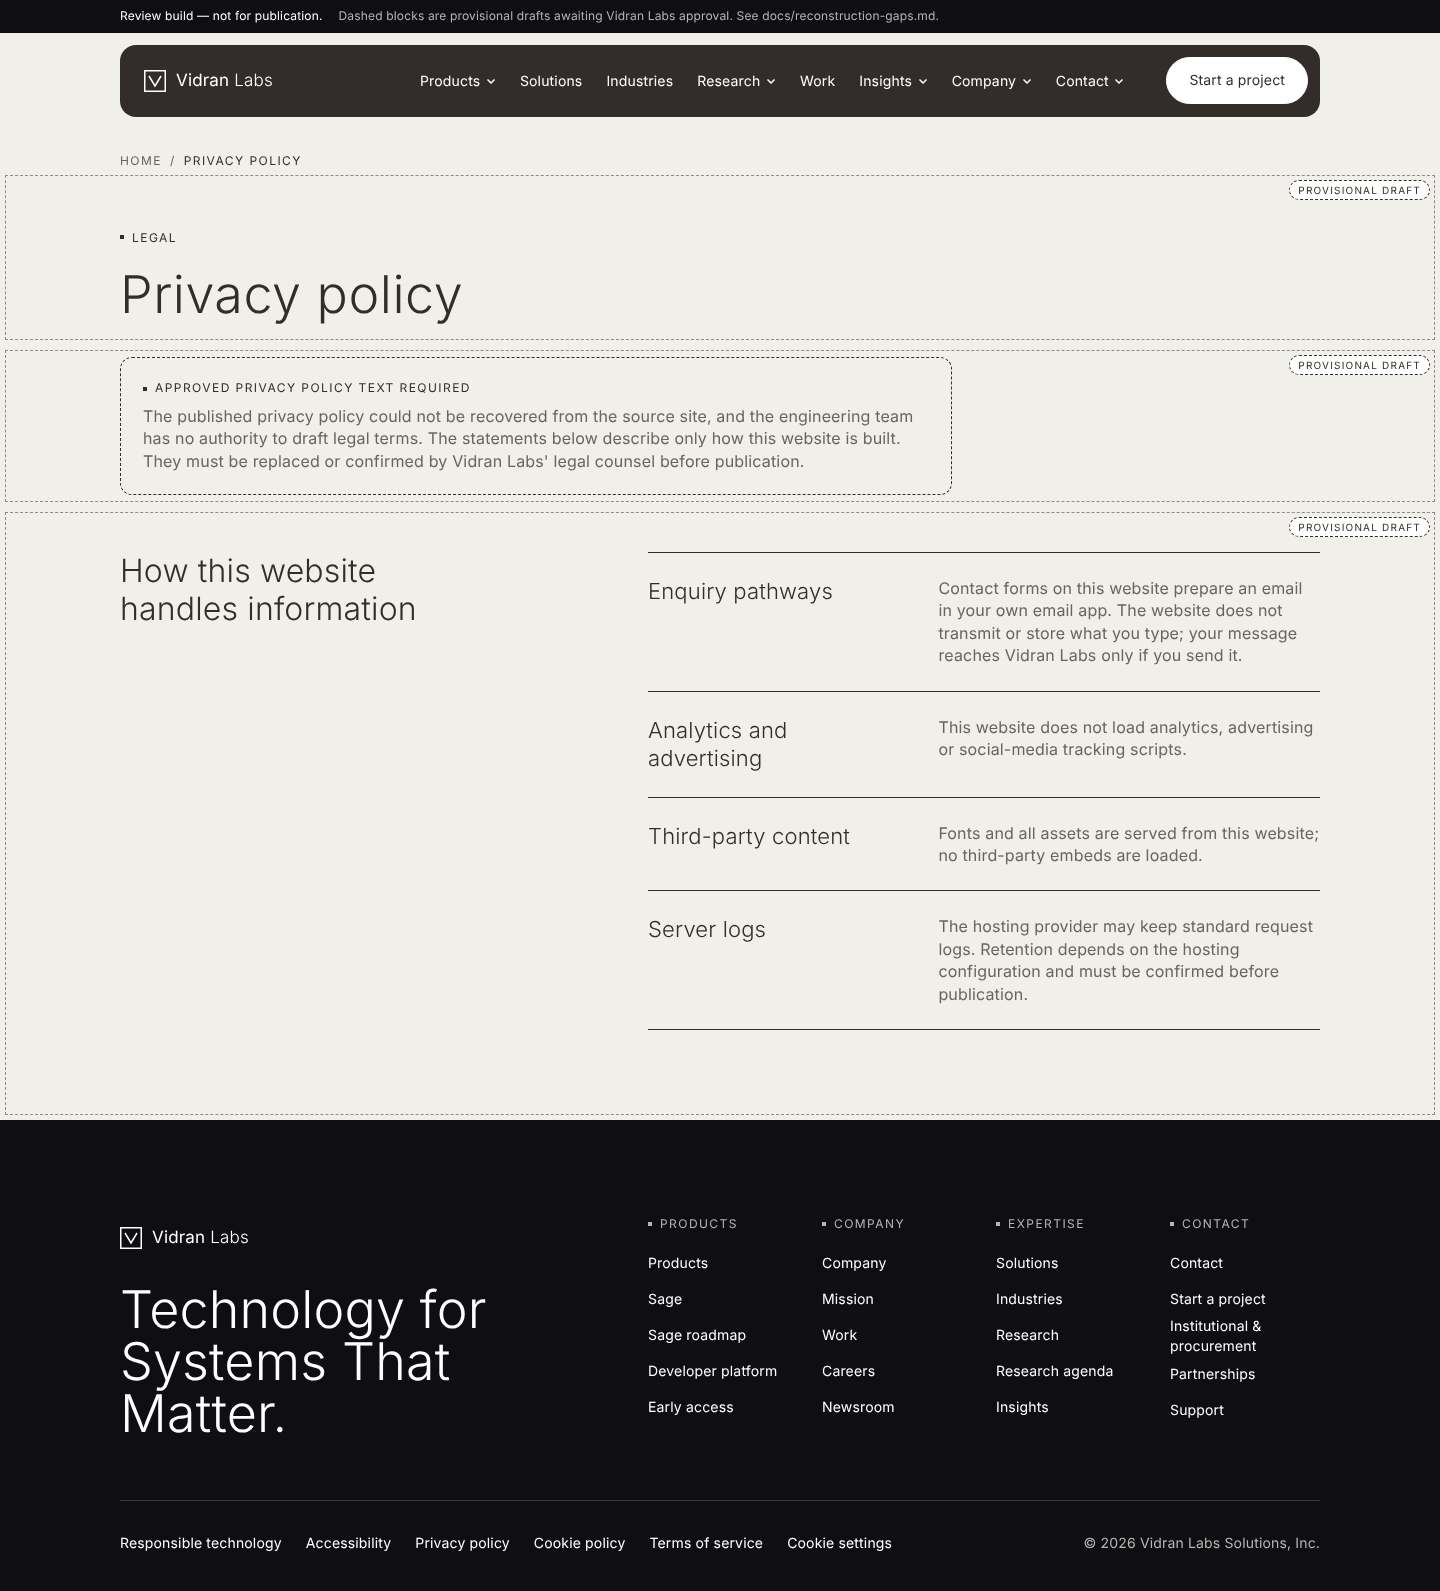
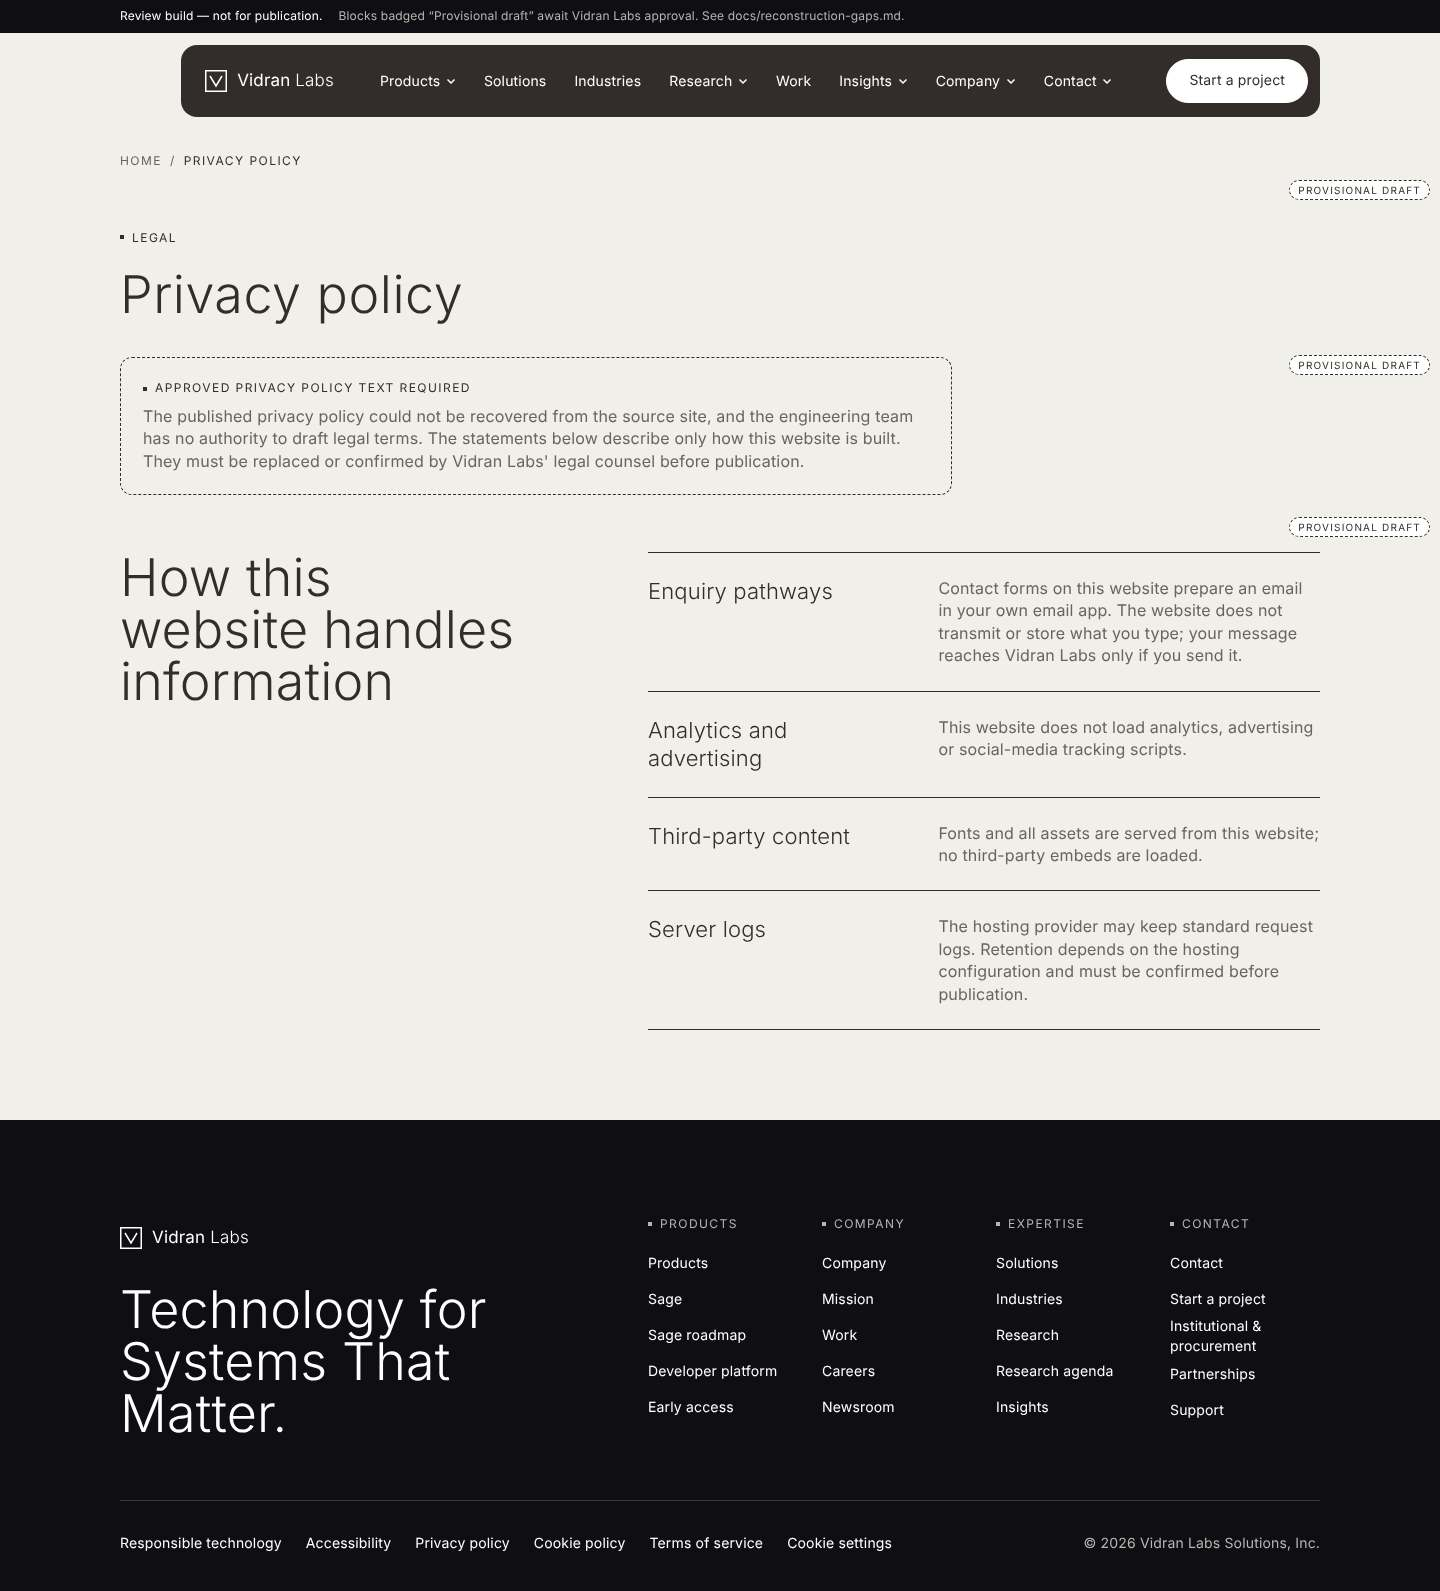
Close composition gaps with the reference design language
Audit against the T1 Energy style reference found the tokens matched but the
composition did not. Fixes:

- Home hero: full-viewport, full-bleed onyx field with the nav pill floating
  over it; headline bottom-left, caption card bottom-right
- Nav pill hugs its content and anchors top-right on desktop; fixed height
- Section headlines at the 52px weight-300 display scale (were 32px)
- Buttons at 18/22px padding; prose at 16px body size
- Review-mode markers reduced to badges (no dashed outlines)
- Fluid hero lede on phones

Tests now scan/measure the mobile menu after its fade-in settles.

Claude-Session: https://claude.ai/code/session_01WGUivKaw5x2xUXsqQQyRBX

diff --git a/styles/components.css b/styles/components.css
@@ -10,7 +10,7 @@
   justify-content: center;
   gap: var(--space-8);
   min-height: var(--tap-min);
-  padding: 0.875rem 1.375rem; /* ≈18/22 with line-height */
+  padding: 1.125rem 1.375rem; /* 18 / 22 */
   border: 1px solid var(--btn-border);
   border-radius: var(--radius-pills);
   background: var(--btn-bg);
@@ -125,11 +125,19 @@
   display: flex;
   align-items: center;
   gap: var(--space-24);
-  min-height: var(--nav-h);
+  height: var(--nav-h);
   padding: var(--space-12) var(--space-12) var(--space-12) var(--space-24);
   border-radius: var(--radius-nav);
   background: var(--color-carbon-warm);
   color: var(--color-text-on-dark);
+}
+
+@media (min-width: 1100px) {
+  .site-header__inner {
+    width: fit-content;
+    margin-left: auto;
+    gap: var(--space-36);
+  }
 }
 
 .wordmark {
@@ -165,7 +173,7 @@
 .primary-nav__list {
   display: flex;
   align-items: center;
-  gap: var(--space-4);
+  gap: var(--space-8);
   list-style: none;
 }
 
@@ -280,6 +288,9 @@
   --btn-fg: var(--color-carbon-warm);
   --btn-border: var(--color-paper-white);
   margin-left: var(--space-8);
+  /* Compact inside the pill so the header height stays exactly --nav-h,
+     which the full-bleed hero relies on to sit flush under it. */
+  padding-block: 0.75rem;
 }
 
 .header-cta.btn:hover {
@@ -631,10 +642,11 @@
   margin-bottom: var(--space-36);
 }
 
+/* Section headlines share the hero's display scale — scale contrast carries the page. */
 .section-head__title {
-  font-size: var(--text-heading);
+  font-size: var(--text-display);
   font-weight: var(--weight-light);
-  line-height: var(--leading-heading);
+  line-height: var(--leading-display);
 }
 
 .section-head__intro {
@@ -664,7 +676,7 @@
 
 .hero__lede {
   max-width: 40rem;
-  font-size: var(--text-subheading);
+  font-size: clamp(1.125rem, 1rem + 0.6vw, 1.375rem); /* 18 → 22 */
   line-height: var(--leading-subheading);
   color: var(--color-text-muted);
 }
@@ -712,6 +724,49 @@
   color: var(--color-text-on-dark-muted);
 }
 
+/* Full-viewport, edge-to-edge hero. The header (sticky, transparent strip + pill)
+   floats over it: pull the hero up by the header's height. Onyx (not carbon) so
+   the carbon nav pill stays distinct on top of it. */
+.hero--fullbleed {
+  position: relative;
+  display: flex;
+  align-items: flex-end;
+  min-height: 100svh;
+  margin-top: calc(-1 * (var(--nav-h) + var(--space-12)));
+  padding-block: calc(var(--nav-h) + var(--space-12) + var(--space-60)) clamp(2.5rem, 1.5rem + 4vw, 5rem);
+  background-color: var(--color-onyx-depth);
+  background-image:
+    linear-gradient(to right, rgb(255 255 255 / 0.045) 1px, transparent 1px),
+    linear-gradient(to bottom, rgb(255 255 255 / 0.045) 1px, transparent 1px);
+  background-size: 64px 64px;
+  background-position: center bottom;
+  color: var(--color-text-on-dark);
+}
+
+.hero-bleed__inner {
+  display: grid;
+  gap: var(--space-36);
+  align-items: end;
+}
+
+@media (min-width: 900px) {
+  .hero-bleed__inner {
+    grid-template-columns: minmax(0, 1fr) auto;
+  }
+}
+
+html[data-review="on"] .hero--fullbleed > .provenance-badge {
+  top: calc(var(--nav-h) + var(--space-24));
+}
+
+.hero--fullbleed .hero__lede {
+  color: var(--color-text-on-dark-muted);
+}
+
+.hero--fullbleed .feature-card {
+  background: var(--color-carbon-warm);
+}
+
 /* Feature card on the panel — the "film-still caption" */
 .feature-card {
   position: relative;
@@ -748,7 +803,7 @@
   display: grid;
   gap: var(--space-16);
   max-width: var(--measure);
-  font-size: 1.125rem;
+  font-size: var(--text-body);
   line-height: var(--leading-body);
 }
 
@@ -1694,11 +1749,6 @@ select.field__control {
    ================================================================ */
 .provenance-badge {
   display: none;
-}
-
-html[data-review="on"] [data-provenance="provisional"] {
-  outline: 1px dashed var(--color-mercury);
-  outline-offset: -6px;
 }
 
 html[data-review="on"] [data-provenance] > .provenance-badge {

diff --git a/components/Blocks.tsx b/components/Blocks.tsx
@@ -94,6 +94,23 @@ export function BlockView({ block, isFirst, compactHero, sectionIndex }: { block
           {block.actions ? <Actions actions={block.actions} /> : null}
         </div>
       );
+      const feature = block.feature ? (
+        <Link href={block.feature.href} className="feature-card">
+          <span className="eyebrow">{block.feature.label}</span>
+          <span className="feature-card__title">{block.feature.title}</span>
+        </Link>
+      ) : null;
+      if (block.tone === "dark" && block.layout === "fullbleed") {
+        return (
+          <section className="hero hero--fullbleed on-dark" data-provenance={block.provenance}>
+            <span className="provenance-badge">{PROVENANCE_LABEL[block.provenance]}</span>
+            <div className="container hero-bleed__inner">
+              {inner}
+              {feature}
+            </div>
+          </section>
+        );
+      }
       if (block.tone === "dark") {
         return (
           <section className="block hero hero--panel" data-provenance={block.provenance}>
@@ -101,12 +118,7 @@ export function BlockView({ block, isFirst, compactHero, sectionIndex }: { block
             <div className="container">
               <div className="hero-panel on-dark">
                 {inner}
-                {block.feature ? (
-                  <Link href={block.feature.href} className="feature-card">
-                    <span className="eyebrow">{block.feature.label}</span>
-                    <span className="feature-card__title">{block.feature.title}</span>
-                  </Link>
-                ) : null}
+                {feature}
               </div>
             </div>
           </section>

diff --git a/tests/e2e/a11y.spec.ts b/tests/e2e/a11y.spec.ts
@@ -20,6 +20,8 @@ test("axe: open mobile menu and form error state", async ({ page }, info) => {
   let results = await new AxeBuilder({ page }).withTags(TAGS).analyze();
   expect(results.violations.map((v) => v.id)).toEqual([]);
   await page.getByRole("button", { name: "Menu" }).click();
+  // Scan the settled state: mid-fade frames blend text into the background.
+  await page.waitForFunction(() => document.getAnimations().every((a) => a.playState !== "running"));
   // While the menu is open, <main> is intentionally inert (modal behaviour), so the
   // best-practice "page has main / h1" rules cannot see it. All WCAG rules still run.
   results = await new AxeBuilder({ page }).withTags(TAGS).disableRules(["landmark-one-main", "page-has-heading-one"]).analyze();

diff --git a/app/layout.tsx b/app/layout.tsx
@@ -35,7 +35,7 @@ export default function RootLayout({ children }: { children: React.ReactNode }) 
           <div className="review-bar" role="region" aria-label="Review build notice">
             <div className="container review-bar__inner">
               <strong>Review build — not for publication.</strong>
-              <span>Dashed blocks are provisional drafts awaiting Vidran Labs approval. See docs/reconstruction-gaps.md.</span>
+              <span>Blocks badged “Provisional draft” await Vidran Labs approval. See docs/reconstruction-gaps.md.</span>
             </div>
           </div>
         ) : null}

diff --git a/content/pages/core.ts b/content/pages/core.ts
@@ -16,6 +16,7 @@ export const corePages: PageDoc[] = [
         title: "Technology for Systems That Matter.",
         lede: "Software, artificial intelligence, automation, data, digital infrastructure, intelligent systems, products and research.",
         tone: "dark",
+        layout: "fullbleed",
         actions: [
           { label: "Start a project", href: "/start-a-project/", variant: "primary" },
           { label: "Explore Sage", href: "/products/sage/", variant: "secondary" },

diff --git a/lib/types.ts b/lib/types.ts
@@ -39,6 +39,8 @@ export type Block =
       actions?: Action[];
       /** "dark" renders the carbon porthole panel (stands in for photography). */
       tone?: "light" | "dark";
+      /** "fullbleed": edge-to-edge, full-viewport dark field under the floating nav (home only). */
+      layout?: "inset" | "fullbleed";
       /** Small caption card on a dark panel, linking to a featured item. */
       feature?: { label: string; title: string; href: string };
     })

diff --git a/docs/design-system-audit.md b/docs/design-system-audit.md
@@ -44,10 +44,12 @@ approved assets exist. Visual fidelity to the *original* vidran.net is still unv
 
 | Component | Treatment |
 |---|---|
-| Navigation | A floating Carbon pill (16px radius) holds the wordmark, links and a white pill CTA. The surrounding strip stays click-through. Dropdowns are white panels with a 1px carbon border and no shadow. |
+| Navigation | A floating Carbon pill (16px radius) holds the wordmark, links and a white pill CTA. On desktop it hugs its content and is anchored top-right. It floats over the full-bleed home hero, and the surrounding strip stays click-through. Dropdowns are white panels with a 1px carbon border and no shadow. |
 | Mobile navigation | A full-height vellum panel with carbon hairline rows, light 22px labels, and 44px circular expand toggles. The page behind it is inert. |
 | Hero (light) | Vellum background: label, then display headline, then muted 22px lede. |
-| Hero (porthole) | An 80px-radius Carbon panel with a faint blueprint grid, white display type at bottom-left, and an Onyx caption card linking to Sage. **It stands in for the reference's full-bleed industrial photography until approved imagery exists.** |
+| Hero (home, full-bleed) | A full-viewport, edge-to-edge Onyx field with a faint blueprint grid. The nav pill floats over it, the white display headline and pill buttons sit at bottom-left, and a Carbon caption card linking to Sage sits at bottom-right. **It stands in for the reference's full-bleed industrial photograph until approved imagery exists.** |
+| Hero (Sage, porthole) | An 80px-radius Carbon panel, which is the reference's "image card" geometry, with the same grid and bottom-left type. |
+| Section headlines | Set at the same 52px weight-300 display scale as the hero, as the reference does. The scale contrast with 14–16px body text carries the page. |
 | Buttons | A matched pill pair: filled Carbon and ghost outline. On dark surfaces they invert to white. |
 | Cards | White, 12px radius, 8px gaps. On hover they invert to Carbon instead of lifting on a shadow. |
 | Accordion (FAQ) | Carbon hairline rows with light 22px questions and a 40px circular +/− control. Built on native `<details>`. |
@@ -66,10 +68,10 @@ approved assets exist. Visual fidelity to the *original* vidran.net is still unv
 |---|---|---|
 | Mercury `#8b8b8b` for secondary text | `#6a635e` | WCAG 1.4.3 contrast |
 | "No accent colours" | Dark red for form errors only | Errors must be unmistakable (WCAG 3.3.1). The red is always paired with text. |
-| Full-bleed photography | Carbon blueprint panels | No approved Vidran imagery exists, and stock or borrowed photos are not acceptable |
+| Full-bleed photography | Onyx and Carbon blueprint fields with the same geometry and placement | No approved Vidran imagery exists, and stock or borrowed photos are not acceptable. **Supplying photography is the largest remaining gap to the reference's feel.** |
 | Weights 300/400 only | 500 for inline `<strong>` | Emphasis inside body copy needs some signal |
-| 36px vertical nav padding | 72px-high pill with 12px padding | Keeps 8 nav items and a CTA on one line |
-| Nav anchored top-right | Full-container-width pill | Fits the 8-item information architecture |
+| 36px vertical nav padding | 72px-high pill with 12px padding, and a compact CTA inside it | Keeps 8 nav items and a CTA on one line. The fixed pill height also lets the full-bleed hero sit exactly under it. |
+| Mobile nav | Full-width pill with a Menu button | Anchoring to the top-right doesn't apply at phone widths |
 
 ## Avoided by design
 
